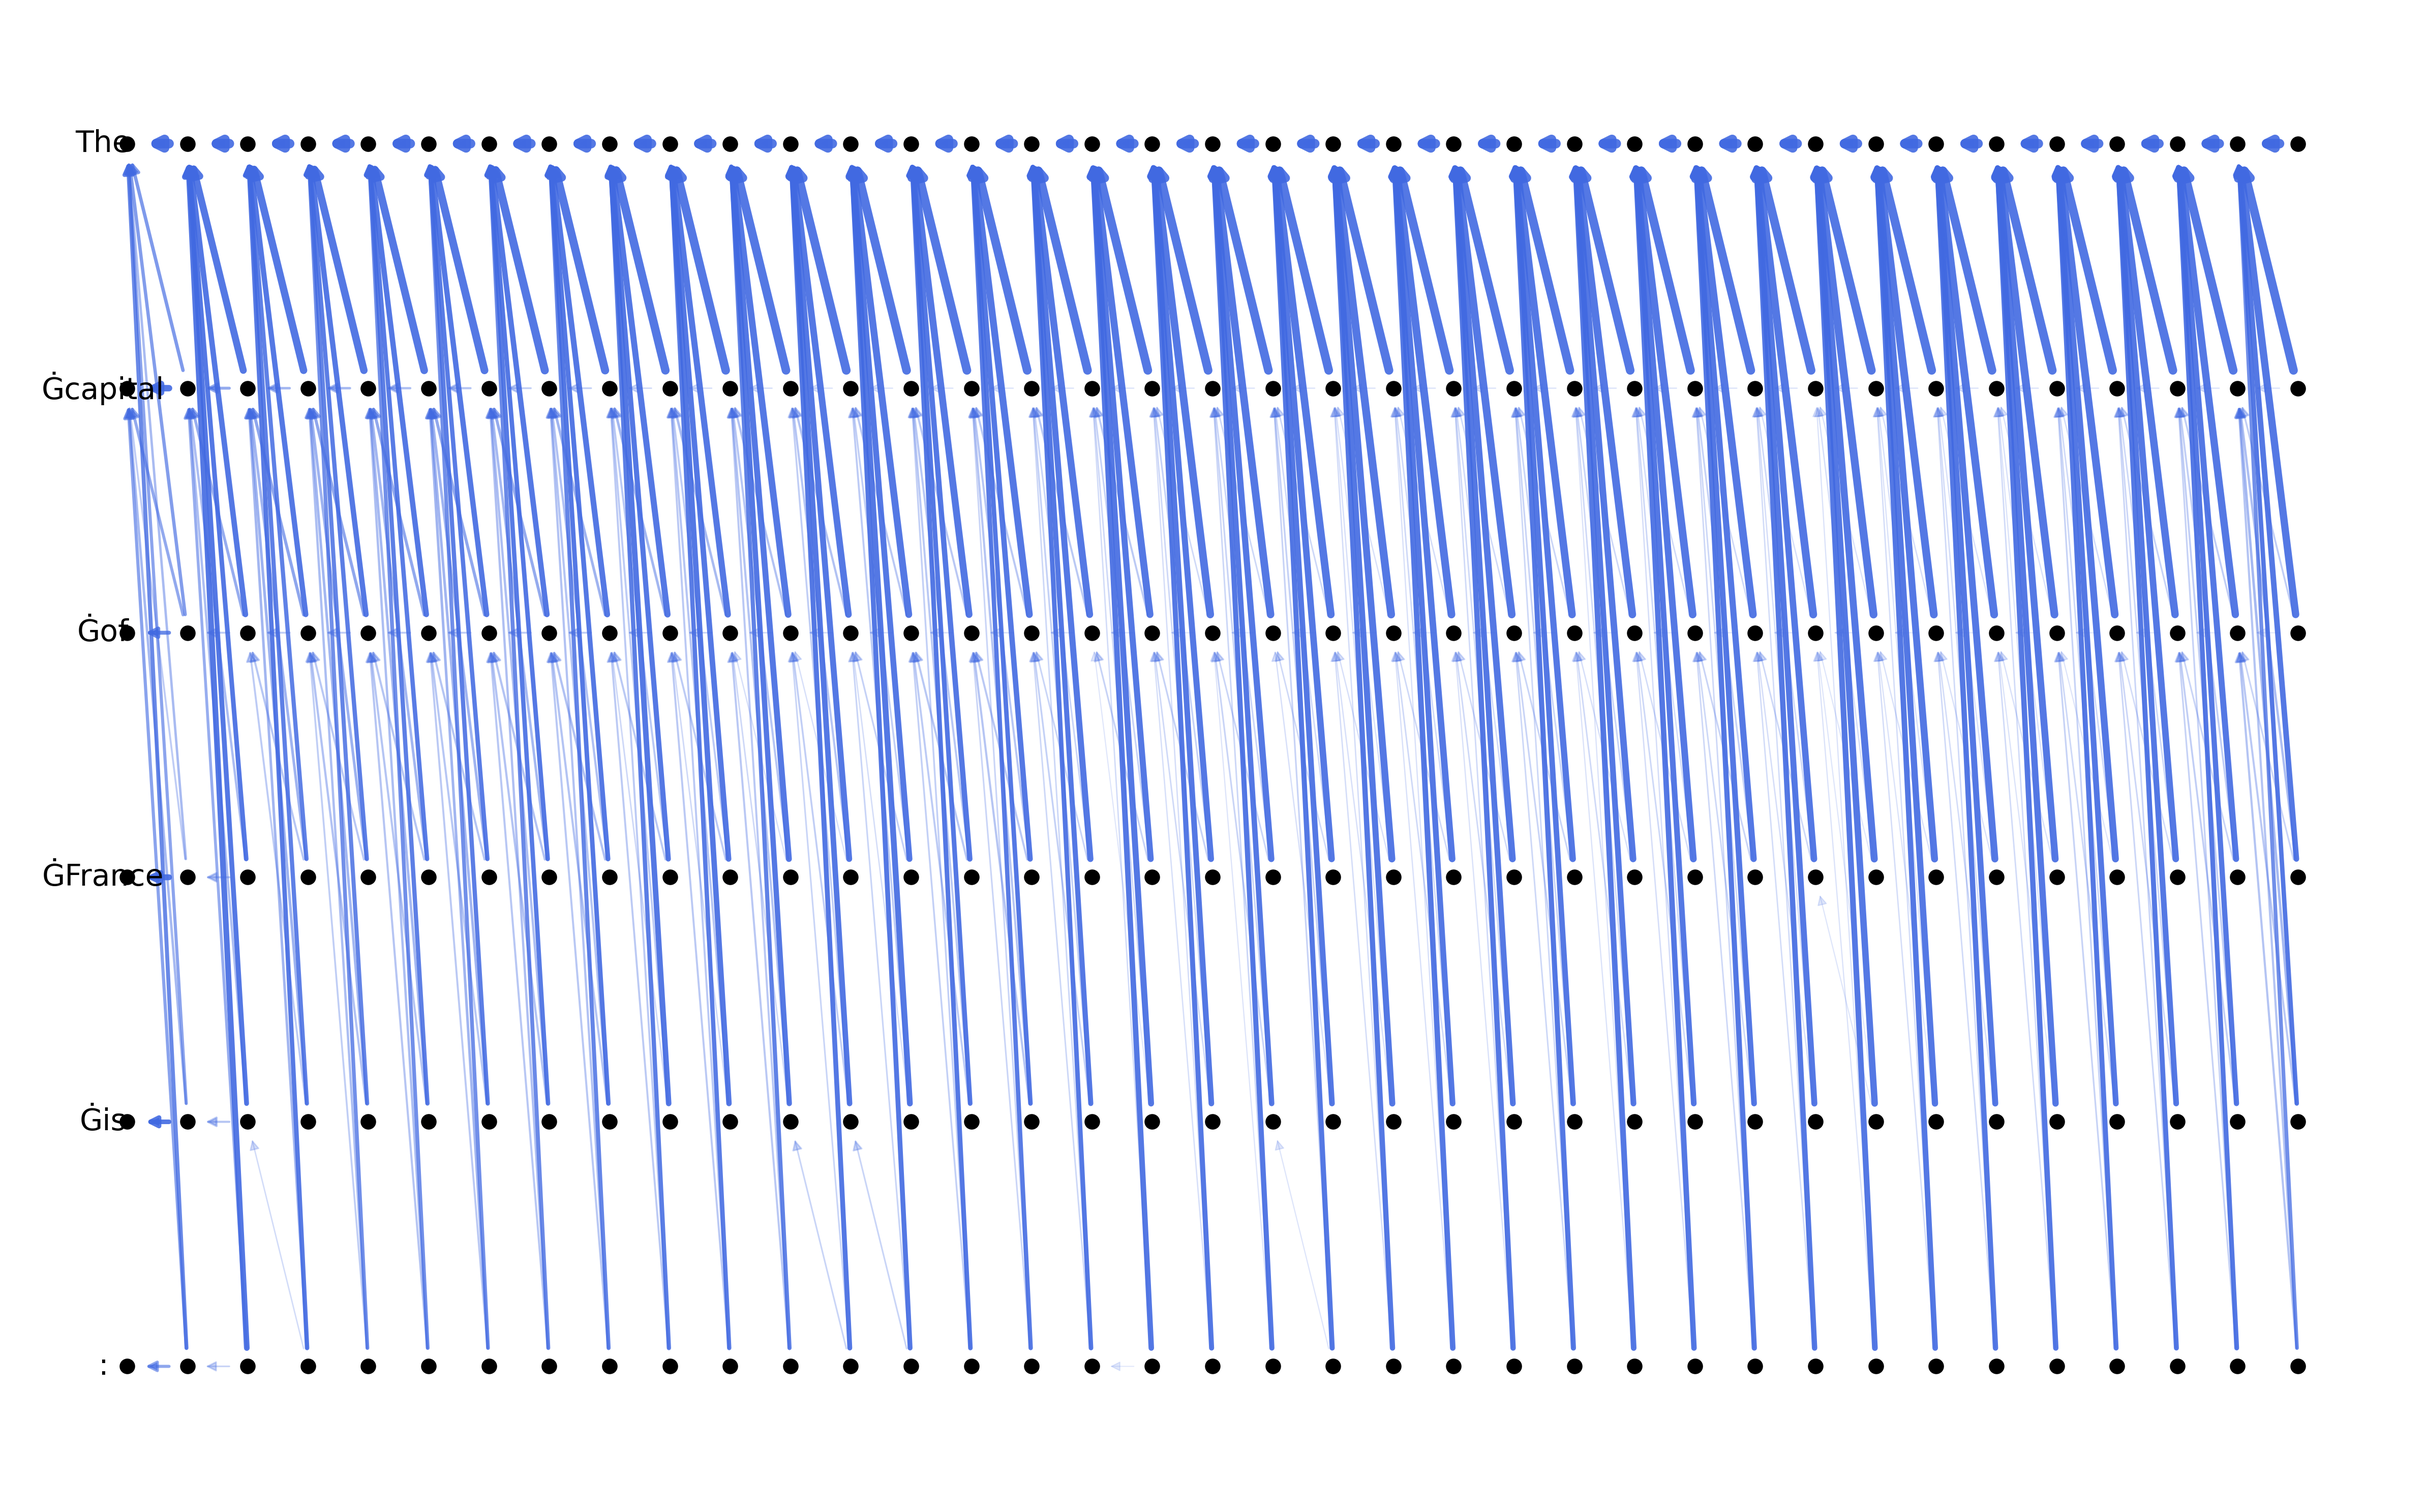
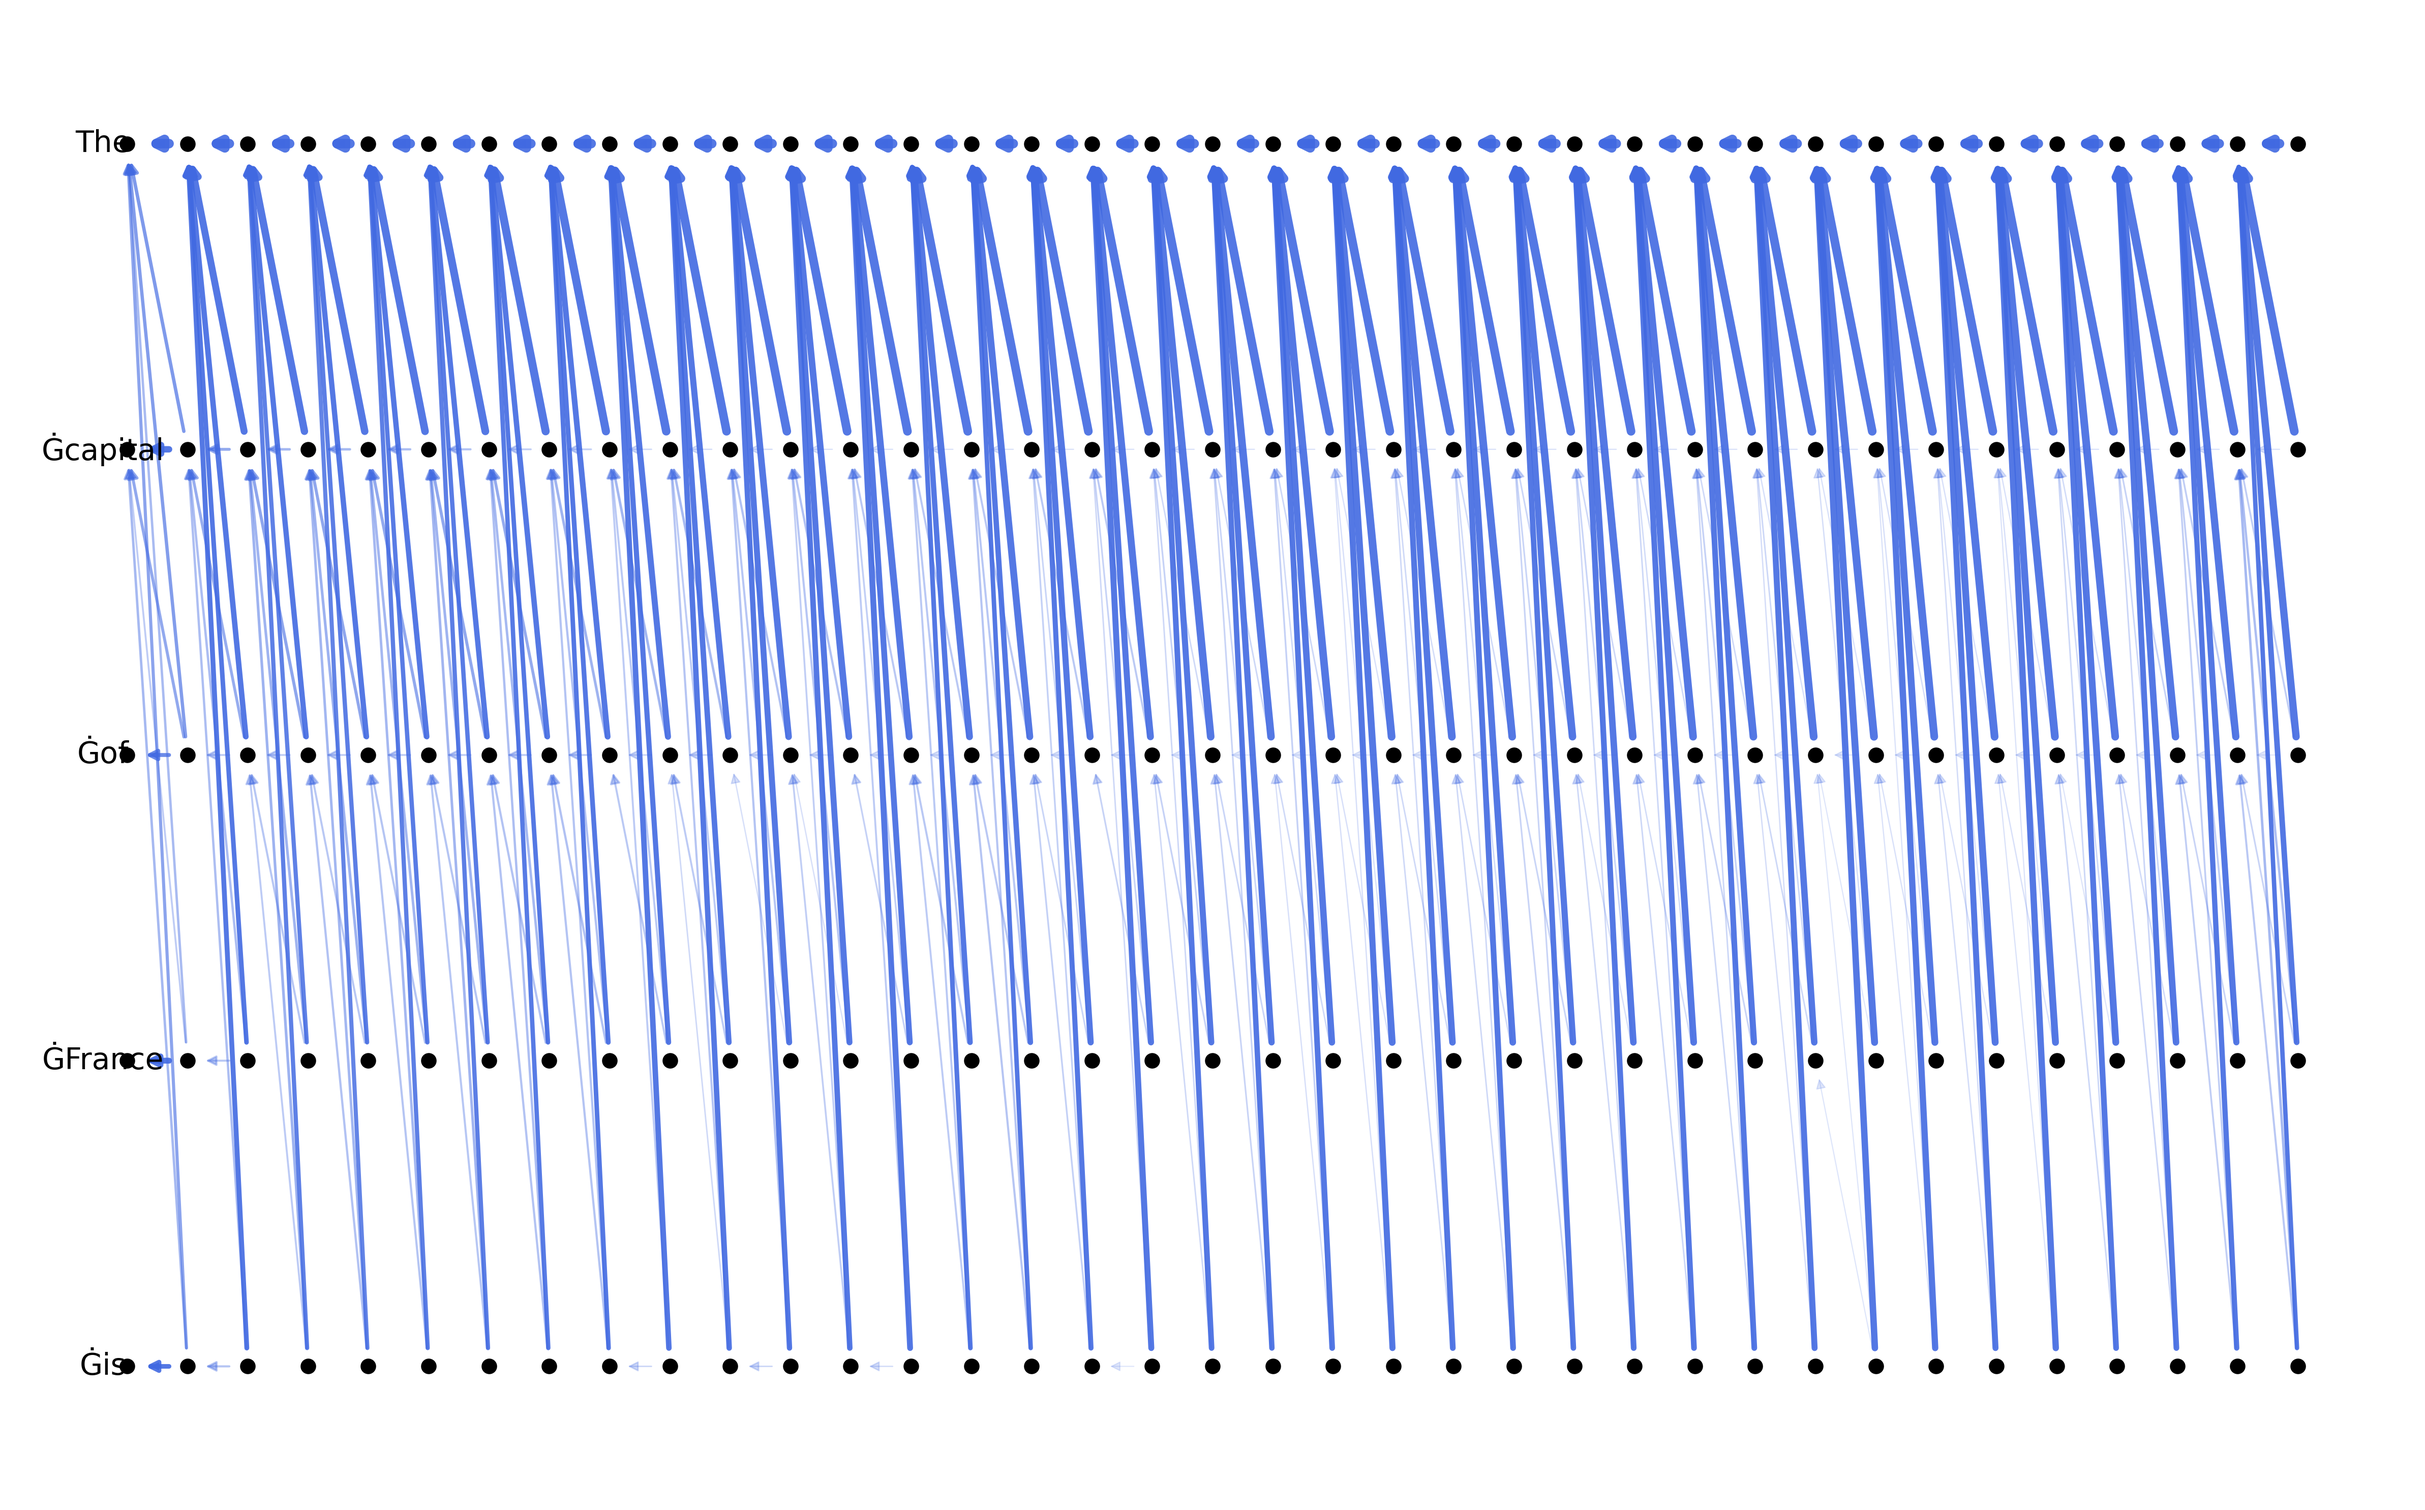
removing images upload with gitignore

Changed region(s): [[0.0312, 0.1239, 0.9683, 0.8364]]

diff --git a/gpt2-large-checkpoint.py b/gpt2-large-checkpoint.py
@@ -41,10 +41,10 @@ def convert_adjmat_tomats(adjmat, n_layers, l):
 
 
 pretrained_weights = 'gpt2-large'
+model_id = pretrained_weights.split("/")[-1]
 family = 'gpt'
-print(f"model: {pretrained_weights}, family: {family}")
+print(f"model: {model_id}, family: {family}")
 IMAGES_DIR = Path(f"images/{family}/{pretrained_weights}")
-print(IMAGES_DIR)
 IMAGES_DIR.mkdir(exist_ok=True, parents=True)
 model = AutoModelForCausalLM.from_pretrained(pretrained_weights,
                                              output_hidden_states=True,
@@ -73,9 +73,7 @@ sentences[7] = "Why is the sky blue?"
 
 sentences[8] = "If Paul's wife is Mary, Mary's husband is"
 
-sentences[9] = "The capital of France is:"
-
-sentences[10] = "Tell the name of the capital of France"
+sentences[9] = "The capital of France is"
 
 sentences[10] = "Tell the name of the capital of France"
 
@@ -146,7 +144,7 @@ for ex_id in range(len(sentences)):
     ax = sns.barplot(x= xax, y=yax, linewidth=0)
     sns.despine(fig=fig, ax=None, top=True, right=True, left=True, bottom=False, offset=None, trim=False)
     ax.set_ylim(0,1)
-    plt.savefig(OUTPUT_DIR/ 'rat_gpt_bar_{}.png'.format(ex_id), format='png', transparent=True, dpi=360, bbox_inches='tight')
+    plt.savefig(OUTPUT_DIR /f'rat_{model_id}_bar_{ex_id}.png', format='png', transparent=True, dpi=360, bbox_inches='tight')
     plt.close()
 
     plt.figure(figsize=(3,6))
@@ -164,10 +162,14 @@ for ex_id in range(len(sentences)):
     for i in range(len(tokens)):
         t_list.append(i)
     t_pos= tuple(t_list)
-    plot_attention_heatmap(attentions_mat.sum(axis=1)/attentions_mat.shape[1], s_position=len(tf_input_ids)-1, t_positions=t_pos, tokens_list=tokens)
+    plot_attention_heatmap(
+        attentions_mat.sum(axis=1)/attentions_mat.shape[1], 
+        s_position=len(tf_input_ids)-1, 
+        t_positions=t_pos, 
+        tokens_list=tokens)
 
     #raw attention
-    plt.savefig(OUTPUT_DIR/ 'rat_gpt_att_{}.png'.format(ex_id), format='png', transparent=True, dpi=360, bbox_inches='tight')
+    plt.savefig(OUTPUT_DIR /f'rat_{model_id}_att_{ex_id}.png', format='png', transparent=True, dpi=360, bbox_inches='tight')
     plt.close()
 
     res_att_mat = attentions_mat.sum(axis=1)/attentions_mat.shape[1]
@@ -186,7 +188,7 @@ for ex_id in range(len(sentences)):
     plt.figure()
     plt.title(sentence)
     res_G = draw_attention_graph(res_adj_mat,res_labels_to_index, n_layers=res_att_mat.shape[0], length=res_att_mat.shape[-1])
-    plt.savefig(OUTPUT_DIR /f'rat_{pretrained_weights}_graph_{ex_id}.png', format='png', transparent=True,dpi=300, bbox_inches='tight')
+    plt.savefig(OUTPUT_DIR /f'rat_{model_id}_graph_{ex_id}.png', format='png', transparent=True,dpi=300, bbox_inches='tight')
     plt.close()
     last_layer_name = f'L{attentions_mat.shape[0]}' # Descobre automaticamente se é L6, L12 ou L24
     output_nodes = []
@@ -203,7 +205,7 @@ for ex_id in range(len(sentences)):
     plt.figure()
     plt.title(sentence)
     flow_G = draw_attention_graph(flow_values,res_labels_to_index, n_layers=attentions_mat.shape[0], length=attentions_mat.shape[-1])
-    plt.savefig(OUTPUT_DIR /f'res_fat_{pretrained_weights}_graph_{ex_id}.png', format='png', transparent=True,dpi=300, bbox_inches='tight')
+    plt.savefig(OUTPUT_DIR /f'res_fat_{model_id}_graph_{ex_id}.png', format='png', transparent=True,dpi=300, bbox_inches='tight')
     plt.close()
 
     flow_att_mat = convert_adjmat_tomats(flow_values, n_layers=attentions_mat.shape[0], l=attentions_mat.shape[-1])
@@ -212,7 +214,7 @@ for ex_id in range(len(sentences)):
 
     plot_attention_heatmap(flow_att_mat, s_position=len(tf_input_ids)-1, t_positions=t_pos, tokens_list=tokens)
 
-    plt.savefig(OUTPUT_DIR/ 'res_fat_gpt_att_{}.png'.format(ex_id), format='png', transparent=True,dpi=360, bbox_inches='tight')
+    plt.savefig(OUTPUT_DIR /f'res_fat_{model_id}_att_{ex_id}.png', format='png', transparent=True,dpi=300, bbox_inches='tight')
     plt.close()
 
     #attention rollout
@@ -223,12 +225,12 @@ for ex_id in range(len(sentences)):
     plt.figure()
     plt.title(sentence)
     G = draw_attention_graph(joint_att_adjmat,joint_labels_to_index, n_layers=joint_attentions.shape[0], length=joint_attentions.shape[-1])
-    plt.savefig(OUTPUT_DIR /f'res_jat_{pretrained_weights}_graph_{ex_id}.png', format='png', transparent=True,dpi=300, bbox_inches='tight')
+    plt.savefig(OUTPUT_DIR /f'res_jat_{model_id}_graph_{ex_id}.png', format='png', transparent=True,dpi=300, bbox_inches='tight')
     plt.close()
 
     plt.figure(figsize=(3,6))
     plot_attention_heatmap(joint_attentions, s_position=len(tf_input_ids)-1, t_positions=t_pos, tokens_list=tokens)
-    plt.savefig(OUTPUT_DIR/ 'res_jat_gpt_att_{}.png'.format(ex_id), format='png', transparent=True, dpi=360, bbox_inches='tight')
+    plt.savefig(OUTPUT_DIR /f'res_jat_{model_id}_att_{ex_id}.png', format='png', transparent=True, dpi=360, bbox_inches='tight')
     plt.close()
 
 

diff --git a/gpt2-checkpoint.py b/gpt2-checkpoint.py
@@ -85,6 +85,8 @@ sentences[13] = "Best japaneses food is"
 
 sentences[14] = "Japanese best food"
 
+sentences[15] = "City of France is"
+
 for ex_id in range(len(sentences)):
     OUTPUT_DIR = IMAGES_DIR / str(ex_id)
     OUTPUT_DIR.mkdir(exist_ok=True, parents=True)

diff --git a/gptOSS-checkpoint.py b/gptOSS-checkpoint.py
@@ -40,7 +40,7 @@ def convert_adjmat_tomats(adjmat, n_layers, l):
    return mats
 
 
-pretrained_weights = 'gpt2'
+pretrained_weights = 'openai/gpt-oss-20b'
 model_id = pretrained_weights.split("/")[-1]
 family = 'gpt'
 print(f"model: {model_id}, family: {family}")
